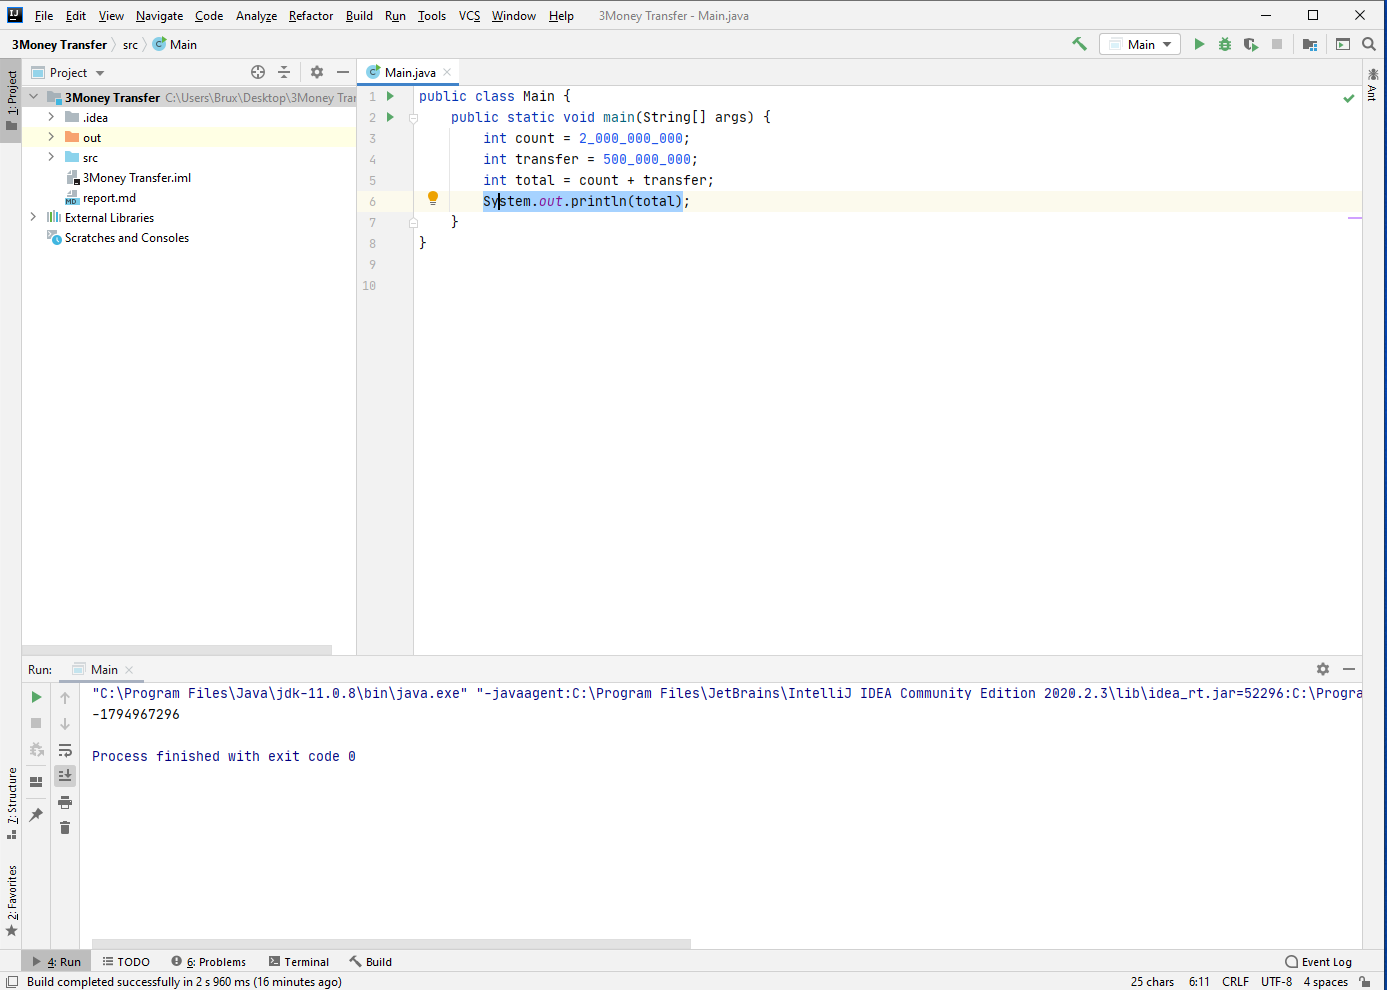
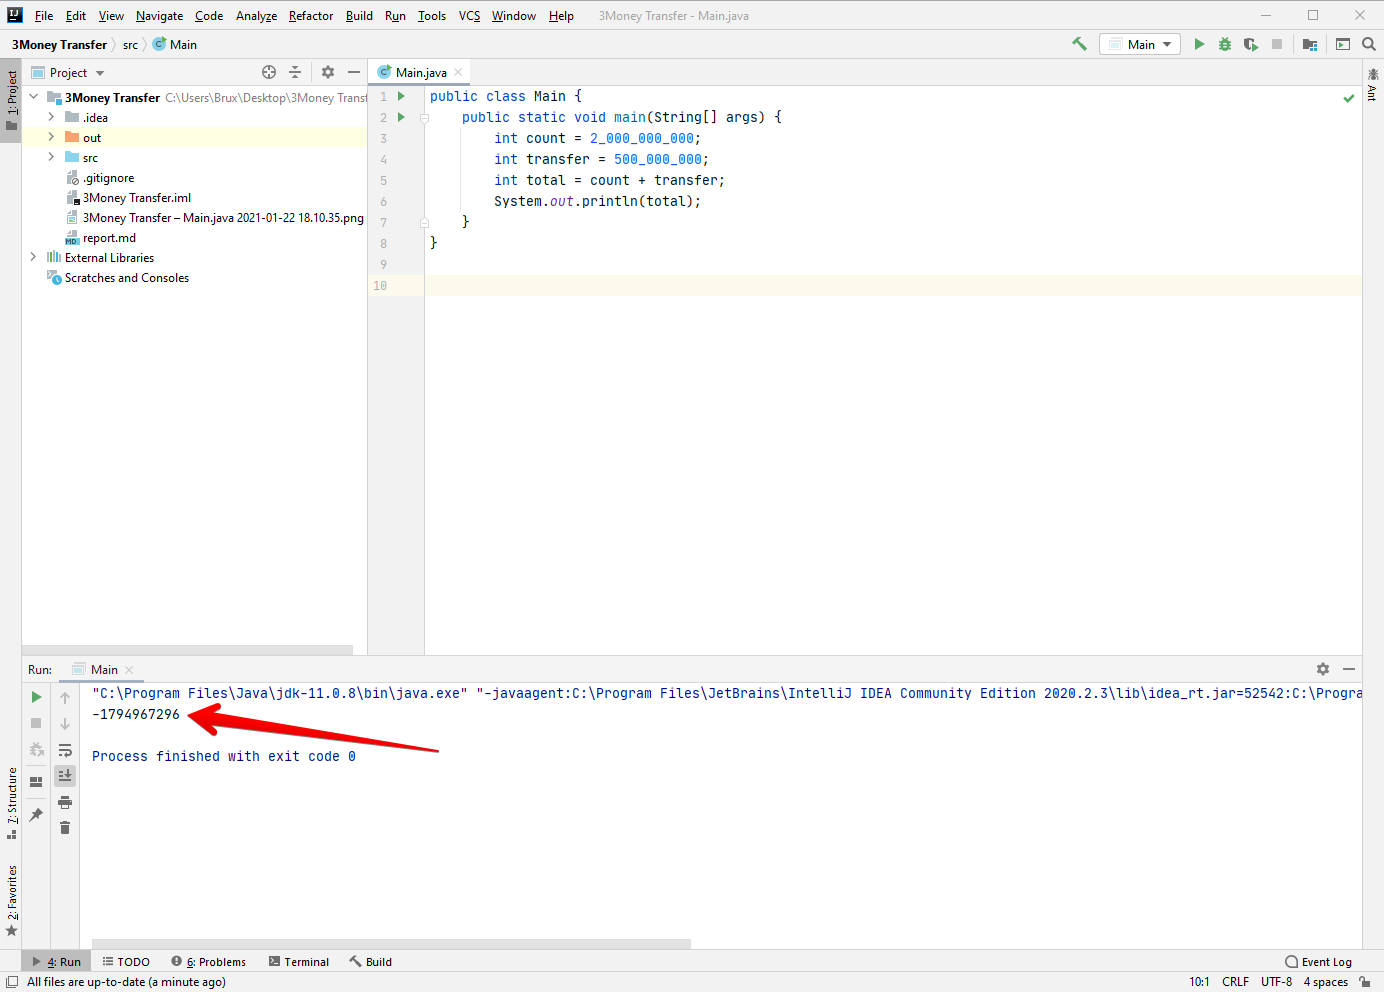
modify

diff --git a/report.md b/report.md
@@ -34,20 +34,6 @@
 
 ### **Результаты:**
 1) 50% успешных/50% не успешных тестов
-2) 
+2) ссылка на баг-репорт https://github.com/denis-study/Money-Transfer/issues/1
 
-
-**Номера кредитных карт:**
-
-* 5122868714026970
-* 4507840605013183
-* 4504073283253037
-* 4112236697328240
-* 5589122119749075
-
-
-
-Тестирование производилось в следующем окружении:
-* Windows 10-64>
-* версия Java 11.0.9.1
-* среда разработки **Intellij IDEA**
+### **Общие рекомендации:** необходимо изменить тип переменной с int на long.
